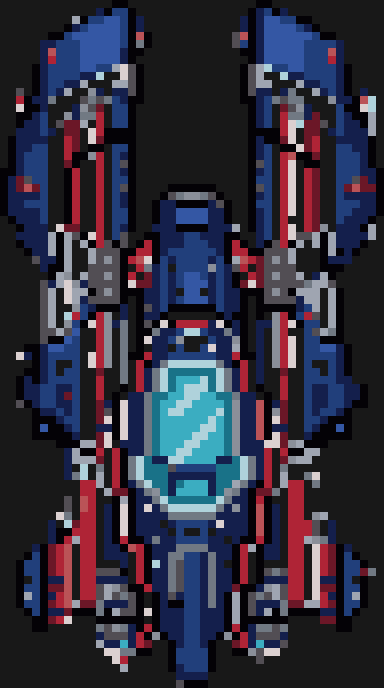
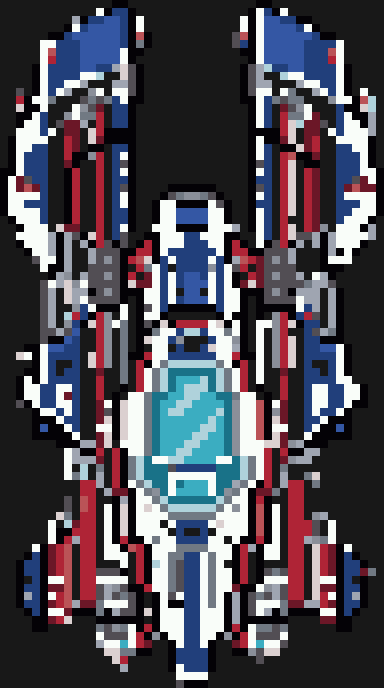
Auricom: blu scuro piu' frequente sostituito dal bianco (piu' visibile in pista); scala per nave applicata anche alla scelta nave e allo sprite sheet

diff --git a/src/main.ts b/src/main.ts
@@ -341,7 +341,8 @@ function drawSelect(): void {
   ships.forEach((s, i) => {
     const d = s.def, x = x0 + i * gap, sel = i === selectIdx;
     if (sel) { ctx.fillStyle = PAL.navy; ctx.fillRect(x - 20, y0 - 20, 50 * sc + 40, 64 * sc + 150); }
-    ctx.drawImage(d.image, x + (50 * sc - d.w * sc) / 2, y0 + (64 * sc - d.h * sc) / 2, d.w * sc, d.h * sc);
+    const k = sc * (d.scale ?? 1);
+    ctx.drawImage(d.image, x + (50 * sc - d.w * k) / 2, y0 + (64 * sc - d.h * k) / 2, d.w * k, d.h * k);
     drawText(ctx, d.name, x, y0 + 64 * sc + 10, 2, sel ? d.trailColor : PAL.grey);
     const bars: [string, number][] = [['VEL', d.stats.speed], ['SPINTA', d.stats.thrust], ['GUIDA', d.stats.handling], ['SCUDO', d.stats.shield]];
     bars.forEach(([n, v], j) => {
@@ -391,7 +392,7 @@ function render(): void {
     const x0 = (width - SHIPS.length * gap + 24) / 2, y0 = 90;
     ctx.fillStyle = 'rgba(6,7,13,0.8)'; ctx.fillRect(0, y0 - 20, width, 64 * sc + 70);
     SHIPS.forEach((d, i) => {
-      ctx.drawImage(d.image, x0 + i * gap, y0, d.w * sc, d.h * sc);
+      ctx.drawImage(d.image, x0 + i * gap, y0, d.w * sc * (d.scale ?? 1), d.h * sc * (d.scale ?? 1));
       drawText(ctx, d.name, x0 + i * gap, y0 + 64 * sc + 10, 2, d.trailColor);
     });
   }

diff --git a/.memory/cdp.py b/.memory/cdp.py
@@ -33,7 +33,10 @@ async def main():
         await call('Page.navigate', url=URL); await asyncio.sleep(2.5)
         await key('Enter', 'Enter')                                   # class
         if SCEN == 'race': await key('ArrowDown', 'ArrowDown')        # Karbonis
-        await key('Enter', 'Enter'); await key('Enter', 'Enter')      # track, ship
+        await key('Enter', 'Enter')                                   # track
+        if SCEN == 'select':
+            await asyncio.sleep(0.5); await shot('select'); print('mode', await js('dbg.mode')); print('errors', await js('(window.__errs||[]).length')); return
+        await key('Enter', 'Enter')                                   # ship
         await asyncio.sleep(0.5)
         print('mode', await js('dbg.mode'), 'track', await js('dbg.track.data.name'))
         if SCEN == 'race':
@@ -62,6 +65,8 @@ async def main():
                 return JSON.stringify({{pos:p.pos, polyN:poly.length, bbox:[Math.min(...xs),Math.min(...ys),Math.max(...xs),Math.max(...ys)], mainDist:Math.round(md), pitWidth:pit.width}})}})()"""))
             await asyncio.sleep(0.5)
             print(await js(f'JSON.stringify({{inPit:{player}.inPit, pos:{player}.pos, dead:{player}.dead, s:{player}.s, d:{player}.d}})'))
+        elif SCEN == 'select':
+            pass  # screenshot of the ship-select screen is taken below
         print('errors', await js('(window.__errs||[]).length'))
 asyncio.run(main())
 chrome.terminate()

diff --git a/.memory/recolour.py b/.memory/recolour.py
@@ -1,0 +1,13 @@
+"""Replace one colour in a sprite PNG. Usage: python3 -I .memory/recolour.py in.png out.png '#rrggbb'|most '#rrggbb'
+('most' = the most frequent opaque colour; prints the palette with counts first)."""
+import sys, cv2, numpy as np
+from collections import Counter
+src, dst, frm, to = sys.argv[1:5]
+im = cv2.imread(src, cv2.IMREAD_UNCHANGED)
+cnt = Counter(map(tuple, im[im[:, :, 3] > 0][:, :3].tolist()))
+for (b, g, r), n in cnt.most_common(): print(f'#{r:02x}{g:02x}{b:02x} {n}')
+hx = lambda s: (int(s[5:7], 16), int(s[3:5], 16), int(s[1:3], 16))
+f = cnt.most_common(1)[0][0] if frm == 'most' else hx(frm)
+m = np.all(im[:, :, :3] == np.array(f), axis=2) & (im[:, :, 3] > 0)
+im[m, :3] = hx(to); cv2.imwrite(dst, im)
+print(f'replaced #{f[2]:02x}{f[1]:02x}{f[0]:02x} ({m.sum()} px) with {to} -> {dst}')

diff --git a/.memory/README.md b/.memory/README.md
@@ -6,4 +6,5 @@
   Richiede il modulo python `websockets` e `google-chrome`.
 - `extract_pixelart.py` — da un disegno pixel-art (griglia di celle, sfondo bianco, anche a filo dei bordi) ricava lo sprite PNG:
   trova il passo della griglia, quantizza i colori, stampa gli ugelli. Uso: `python3 -I .memory/extract_pixelart.py ref/nave.jpeg public/ships/nave.png [cols rows]`
+- `recolour.py` — sostituisce un colore (o il piu' frequente) in uno sprite PNG; usato per schiarire l'Auricom.
 - `shots/` — screenshot prodotti dagli script (non committati).
